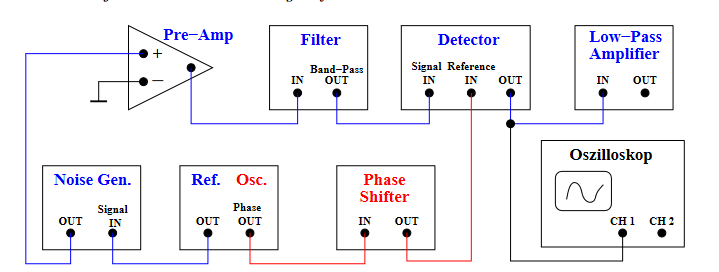
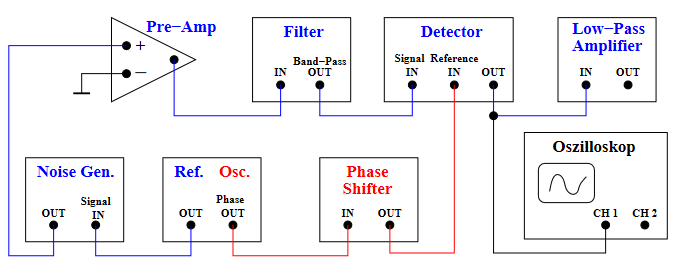
h

Changed region(s): [[0.0, 0.0611, 0.9669, 1.0]]

diff --git a/v303/content/durchfuehrung.tex b/v303/content/durchfuehrung.tex
@@ -4,18 +4,18 @@ Der Versuch besteht im wesentlichen aus einem Lock-In-Verstärker und einem Oszi
 Für den ersten Versuchsteil wird die Schaltung, wie in Abbildung \ref{fig:aufa} zu sehen ist, aufgebaut.
 \begin{figure}
     \centering
-    \caption{Schematischer Aufbau eines Lock-In-Verstärkers für Aufgabenteil a).\cite{v303}}
+    \caption{Schematischer Aufbau eines Lock-In-Verstärkers mit Rausch Generator.\cite{v303}}
     \label{fig:aufa}
     \includegraphics[width = 0.6 \textwidth]{Pics/aufa.png}
 \end{figure}
 Dabei wird zunächst der Rausch Generator überbrückt. Es werden sechs verschiedene Phasen am Phasenverschieber eingestellt und die entstehenden
-Bilder am Oszilloskop werden gespeichert. Das Verfahren wird noch einmal mit dem Rausch Generator angeschlossen durchgeführt.
+Bilder werden am Oszilloskop gespeichert. Das Verfahren wird noch einmal mit dem angeschlossenen Rausch Generator durchgeführt.
 \\
-Für dem zweiten Aufgabenteil wird, wie in Abbildung \ref{fig:aufb} zu sehen ist, an der Stelle des Rausch Generators eine LED und ein Photodetektor im Abstand von einander $r$ angeschlossen.
+Für den zweiten Aufgabenteil wird, wie in Abbildung \ref{fig:aufb} zu sehen ist, an der Stelle des Rausch Generators eine LED und ein Photodetektor im Abstand $r$ von einander angeschlossen.
 Dabei ist der Abstand variierbar. 
 \begin{figure}
     \centering
-    \caption{Schematischer Aufbau eines Lock-In-Verstärkers für Aufgabenteil b).\cite{v303}}
+    \caption{Schematischer Aufbau eines Lock-In-Verstärkers mit Leuchtdiode und Photodetektor.\cite{v303}}
     \label{fig:aufb}
     \includegraphics[width = 0.6 \textwidth]{Pics/aufb.png}
 \end{figure}
